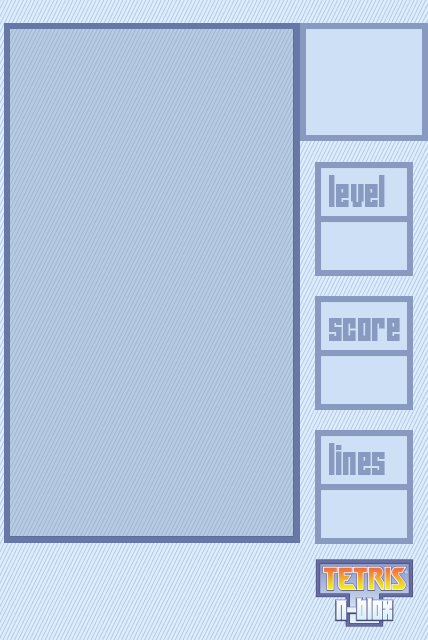
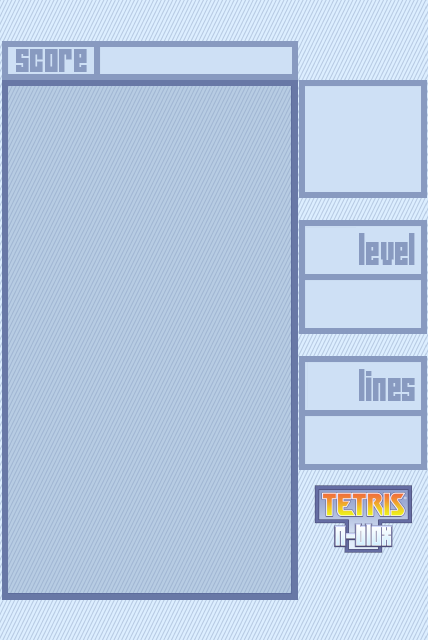
[nbloxmobile] Rearrange ui again

Changed region(s): [[0.0, 0.0312, 1.0, 1.0]]

diff --git a/src/Nblox/Mobile.html b/src/Nblox/Mobile.html
@@ -284,8 +284,8 @@
         parsed.application["windowWidth@i"] = 428;
         parsed.application["windowHeight@i"] = 640;
 
-        const xOffset = 55;
-        const yOffset = 35;
+        const xOffset = 53;
+        const yOffset = -22;
 
         parsed.application.backgroundImage.style.resource_texture =
           "project-FTO/art/main-background-mobile.png";
@@ -367,38 +367,40 @@
 
         const pauseButtonTransform =
           parsed.gameMgr.gameView.gameViewParams.pauseButton.transform;
-        pauseButtonTransform["x@f"] -= 195;
-        pauseButtonTransform["y@f"] -= 200;
+        pauseButtonTransform["x@f"] = 150;
+        pauseButtonTransform["y@f"] = 265;
 
         const audioButtonTransform =
           parsed.gameMgr.gameView.gameViewParams.audioButton.transform;
-        audioButtonTransform["x@f"] = pauseButtonTransform["x@f"] - 150;
-        audioButtonTransform["y@f"] = pauseButtonTransform["y@f"];
+        audioButtonTransform["x@f"] = 150;
+        audioButtonTransform["y@f"] = -260;
 
         parsed.gameMgr.gameView.playerViews["playerView-base"].nextQueue[
           "firstPieceCenterX@f"
-        ] -= 2.5;
+        ] -= 3.5;
         parsed.gameMgr.gameView.playerViews["playerView-base"].nextQueue[
           "firstPieceCenterY@f"
-        ] += 39;
-
-        const linesValue =
-          parsed.gameMgr.gameView.playerViews["playerView-base"].linesValue;
-        linesValue["positionX@f"] = 113;
-        linesValue["positionY@f"] = -197;
-        linesValue.BPSTetBitmapTextView.horizontalAlignment = "left";
+        ] -= 22;
 
         const scoreValue =
           parsed.gameMgr.gameView.playerViews["playerView-base"].scoreValue;
-        scoreValue["positionX@f"] = linesValue["positionX@f"];
-        scoreValue["positionY@f"] = linesValue["positionY@f"] + 134;
-        scoreValue.BPSTetBitmapTextView.horizontalAlignment = "left";
+        scoreValue["positionX@f"] = 60;
+        scoreValue["positionY@f"] = 258.5;
+        scoreValue.BPSTetBitmapTextView.horizontalAlignment = "right";
+        scoreValue.BPSTetBitmapTextView.resource_font =
+          "project-FTO/art/fonts/font-FTO-22";
+
+        const linesValue =
+          parsed.gameMgr.gameView.playerViews["playerView-base"].linesValue;
+        linesValue["positionX@f"] = 201;
+        linesValue["positionY@f"] = -123;
+        linesValue.BPSTetBitmapTextView.horizontalAlignment = "right";
 
         const levelValue =
           parsed.gameMgr.gameView.playerViews["playerView-base"].levelValue;
-        levelValue["positionX@f"] = scoreValue["positionX@f"];
-        levelValue["positionY@f"] = scoreValue["positionY@f"] + 134;
-        levelValue.BPSTetBitmapTextView.horizontalAlignment = "left";
+        levelValue["positionX@f"] = linesValue["positionX@f"];
+        levelValue["positionY@f"] = linesValue["positionY@f"] + 136;
+        levelValue.BPSTetBitmapTextView.horizontalAlignment = "right";
 
         const customData = encode(JSON.stringify(parsed), -1);
 
